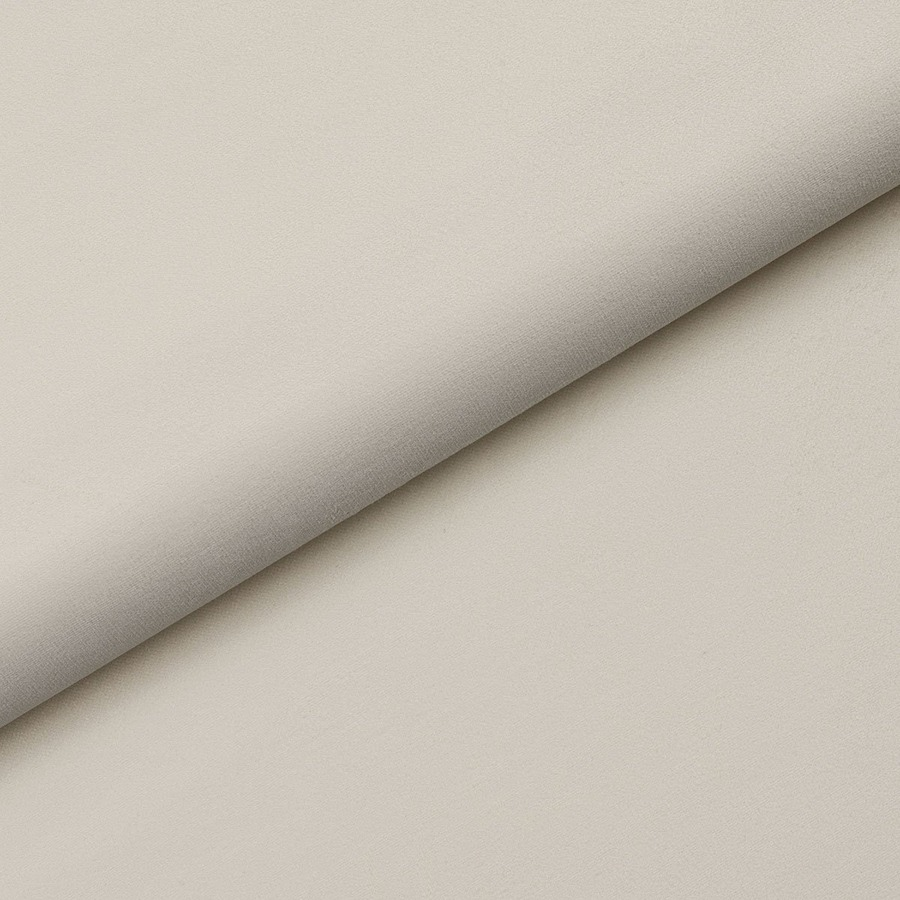
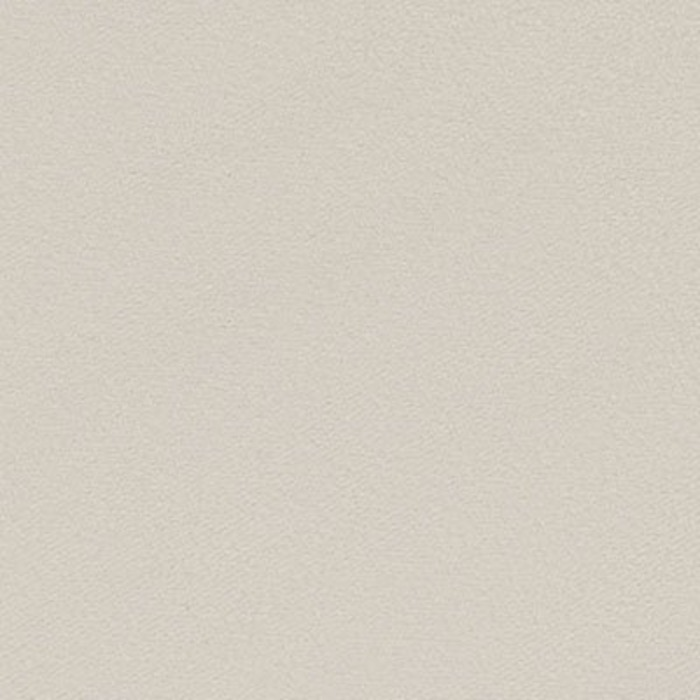
v11: shadow-free flat crops + per-pill zoom to separate Neted from Texturat
Recropped all 4 chip photos to flat, evenly-lit regions of the source
macro shots -- no fold corners or shadow lines, just clean material.
Neted and Texturat were still reading as near-identical since both are
plain matte weaves and only differ in thread gauge (fine vs thick);
gave each pill its own zoom level (Neted 380%, Texturat 750%, others
650%) so the fine-vs-coarse weave contrast is actually visible instead
of erased by using one zoom for both.

Changed region(s): [[0.0, 0.09, 1.0, 0.87]]

diff --git a/mobile-v11.html b/mobile-v11.html
@@ -129,7 +129,7 @@ h3.cfg-title{font-size:18px;font-weight:600;letter-spacing:-.03em;line-height:1.
 .cfg-fabric-pillrow::-webkit-scrollbar{display:none}
 .cfg-seg{flex:0 0 auto;display:inline-flex;align-items:center;gap:9px;background:#fff;border:1px solid var(--ink);border-radius:9999px;padding:6px 18px 6px 6px;color:var(--ink);transition:background-color .15s,color .15s,border-color .15s}
 .cfg-seg.on{background:var(--ink);border-color:var(--ink);color:#fff}
-.cfg-seg .dot{width:48px;height:48px;border-radius:50%;flex:0 0 auto;background-size:420%;background-position:center;box-shadow:inset 0 0 0 1px rgba(0,0,0,.08)}
+.cfg-seg .dot{width:48px;height:48px;border-radius:50%;flex:0 0 auto;background-size:650%;background-position:center;box-shadow:inset 0 0 0 1px rgba(0,0,0,.08)}
 .cfg-seg .nm{font-size:15px;font-weight:500;letter-spacing:-.2px;white-space:nowrap}
 /* same chip, smaller -- used in the Filtre sheet's Material group so all 4 fit on one row */
 .cfg-seg.sm{gap:7px;padding:5px 14px 5px 5px}
@@ -1003,11 +1003,15 @@ var sel = { shapeEl: null, collectionSlug: 'luna', colorName: null, needs: [] };
    price tier and not by the old Catifea/Velur/Bucle split -- that split had real velvet
    (Piano) lumped in with velvet-*look* wovens (Manila/Zoya/Maya), and called plain thick
    weaves (Luna/Spello) "Bucle" even though none of them are an actual looped/bouclé texture. */
+/* zoom is per-pill because Neted and Texturat are both plain matte weaves -- the only real
+   difference is thread gauge (fine vs thick), which only reads if Neted is shown at a wider
+   crop (finer grain, needs less magnification to look "dense") and Texturat tighter (coarser
+   grain, needs more magnification to read as chunky) -- same zoom on both erases the contrast. */
 var FABRIC_PILLS = [
-  { key:'neted', label:'Neted', stems:['Neted'], asset:'assets/chip-neted.jpg' },
-  { key:'texturat', label:'Texturat', stems:['Texturat'], asset:'assets/chip-texturat.jpg' },
-  { key:'catifea', label:'Catifea', stems:['Catifea'], asset:'assets/chip-catifea.jpg' },
-  { key:'efect-catifea', label:'Efect catifea', stems:['Efect catifea'], asset:'assets/chip-efectcatifea.jpg' }
+  { key:'neted', label:'Neted', stems:['Neted'], asset:'assets/chip-neted.jpg', zoom:380 },
+  { key:'texturat', label:'Texturat', stems:['Texturat'], asset:'assets/chip-texturat.jpg', zoom:750 },
+  { key:'catifea', label:'Catifea', stems:['Catifea'], asset:'assets/chip-catifea.jpg', zoom:650 },
+  { key:'efect-catifea', label:'Efect catifea', stems:['Efect catifea'], asset:'assets/chip-efectcatifea.jpg', zoom:650 }
 ];
 var activeFabricPill = null;
 var LUNA_SOFA_CODES = ['5','6','8','10','13','14'];
@@ -1163,7 +1167,7 @@ function buildFabricSeg(p, small, onPicked){
   var seg = document.createElement('div');
   seg.className = 'cfg-seg' + (small ? ' sm' : '') + (activeFabricPill === p.key ? ' on' : '');
   seg.innerHTML =
-    '<span class="dot" style="background-image:url(\'' + p.asset + '\')"></span>' +
+    '<span class="dot" style="background-image:url(\'' + p.asset + '\');background-size:' + (p.zoom || 650) + '%"></span>' +
     '<span class="nm">' + p.label + '</span>';
   seg.onclick = function(){
     activeFabricPill = activeFabricPill === p.key ? null : p.key;
